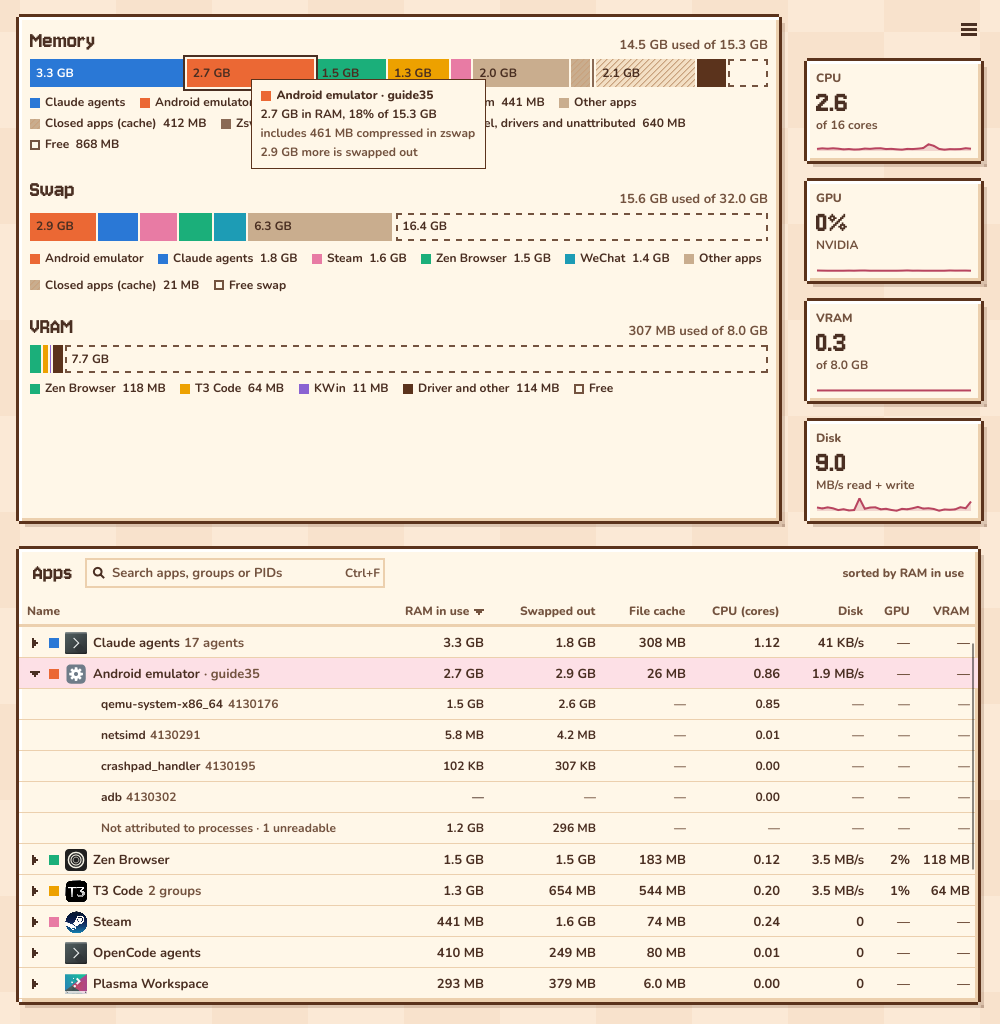
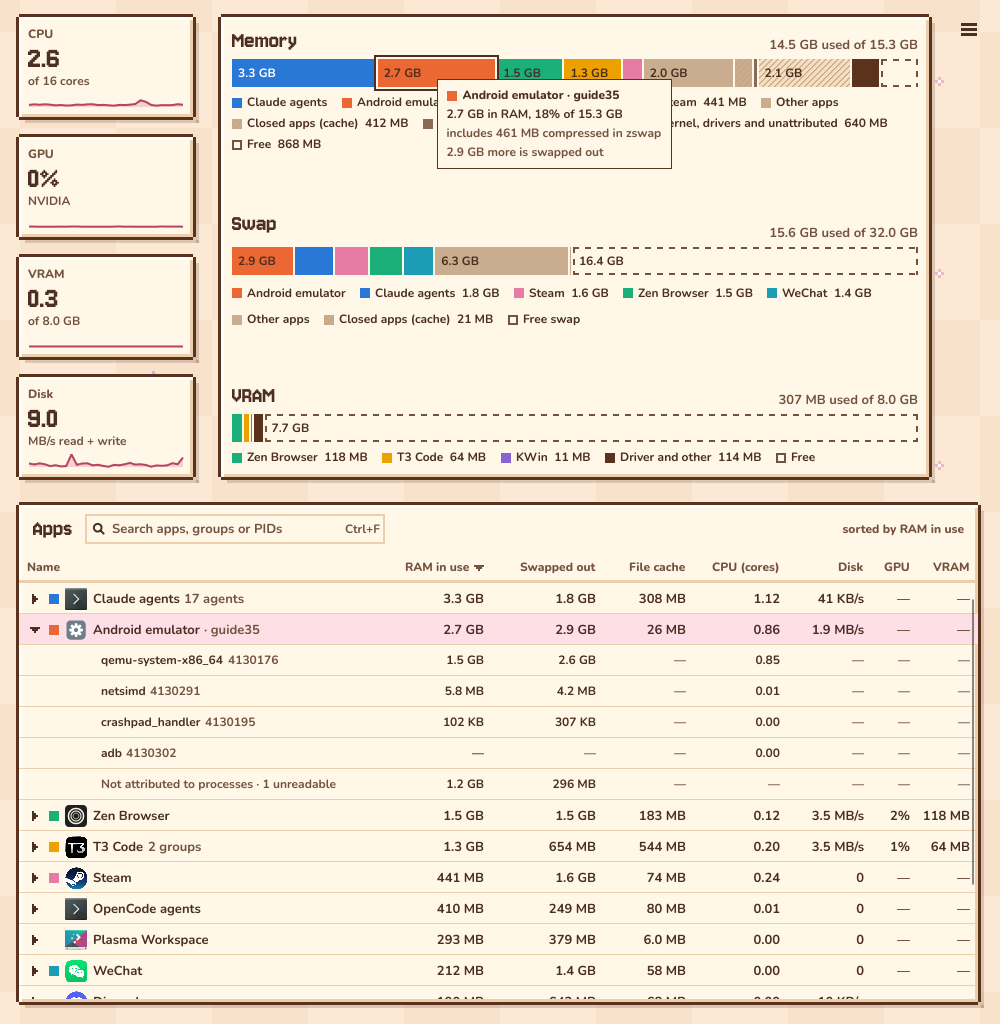
Tiles on the left, two by two in a wide window (#58) (#59)
* Tiles on the left, two by two in a wide window; the top as short as it can be (#58)

In a maximised window the top area took about 45% of the height with empty space under the
bars. The tiles now sit left of the bars, two by two from 1400 px wide, all four the same size;
the top area takes its minimum height and the bars share any spare height in equal gaps. The
menu button stays at the top right. Screenshots gain a maximised window (full-*).

* Equal tile widths in the two-by-two layout (#58)

Changed region(s): [[0.0, 0.0, 0.992, 1.0], [0.589, 0.375, 0.62, 0.4062]]

diff --git a/crates/app/src/screenshots.rs b/crates/app/src/screenshots.rs
@@ -259,9 +259,11 @@ fn screenshots() {
         crate::present(&ui, crate::sample::unsplit());
         shot.save(&shot.render(), &dir.join(format!("unaccounted-{name}.png")));
 
-        // #36: the narrowest and the shortest window, the minimum size, and the minimum at 2x.
+        // #36: the narrowest and the shortest window, the minimum size, and the minimum at 2x;
+        // and a window maximised on a 1920×1080 screen, where the legends wrap least.
         crate::present(&ui, crate::sample::snapshot());
         for (size, width, height, scale_factor) in [
+            ("full", 1920, 1040, 1.0),
             ("narrow", 760, 844, 1.0),
             ("short", 1000, 480, 1.0),
             ("min", 760, 480, 1.0),

diff --git a/README.md b/README.md
@@ -15,7 +15,7 @@
 </p>
 
 <p align="center">
-  <img src="docs/readme/breeze-light.png" alt="SebWatch in Breeze Light: RAM, swap and VRAM bars split by app, CPU, GPU, VRAM and disk tiles with their last minute as a graph, and the app table with the Android emulator expanded into its processes" />
+  <img src="docs/readme/breeze-light.png" alt="SebWatch in Breeze Light: CPU, GPU, VRAM and disk tiles with their last minute as a graph, RAM, swap and VRAM bars split by app beside them, and the app table with the Android emulator expanded into its processes" />
   <br /><sub>Breeze Light, with the Android emulator expanded into its processes</sub>
 </p>
 
@@ -65,7 +65,7 @@ the app menu under System. The chosen theme is kept in `~/.config/sebwatch/setti
 
 ## What you see
 
-Top to bottom:
+From the top:
 
 1. **RAM bar.** The five biggest apps in their own colours, then other apps, zswap pool, file
    cache (hatched: the kernel frees it on demand), kernel and drivers, and free. Hover a segment
@@ -73,8 +73,8 @@ Top to bottom:
 2. **Swap bar.** How much of each app sits in swap, naming the five biggest users of swap.
 3. **VRAM bar** (NVIDIA only). Each app's VRAM, naming the five biggest users, the driver's share, and free. While the GPU
    sleeps it says so, and SebWatch doesn't wake it.
-4. **Tiles** for CPU, GPU, VRAM and disk beside the bars, under the menu button that switches
-   theme.
+4. **Tiles** for CPU, GPU, VRAM and disk to the left of the bars, each with its last minute as a
+   small graph; two by two in a wide window. The menu button at the top right switches theme.
 5. **App table.** Name and icon, RAM in use, swapped out, file cache, CPU in cores, disk, GPU
    and VRAM, sorted by RAM; click a column's header to sort by it, again to reverse. An app
    keeps one colour in every bar and in the table. Press Ctrl+F to find an app by name, group or

diff --git a/docs/design.md b/docs/design.md
@@ -25,7 +25,7 @@ Android emulators never appear.
 
 ## Main window
 
-Top to bottom:
+From the top:
 
 1. **RAM bar** that sums to total RAM: the top apps in fixed colors, then other apps, zswap
    pool, file cache (hatched: freed on demand), kernel and drivers, free. Hovering a segment
@@ -46,9 +46,13 @@ Top to bottom:
    into "N more apps") and a chip reads "Filtered: N of M apps · the bars show the whole system";
    the bars and tiles don't change. "Closed apps (cache)" stays only when the search finds it
    or one of the apps it lists.
-5. Small headline tiles for CPU, GPU, VRAM and disk beside the bars, under the menu button:
-   the value large, its unit below, and the last minute as a line with a light fill along the
-   tile's bottom, under the words (tile style T3, #52).
+5. Headline tiles for CPU, GPU, VRAM and disk to the left of the bars: the value large, its
+   unit below, and the last minute as a line with a light fill along the tile's bottom, under
+   the words (tile style T3, #52). All four are the same size, graph or not. From 1400 px wide
+   they sit two by two, so the top area is only as tall as the bars and the table gets the rest;
+   narrower windows stack them in one column (#58). The top area is as short as the taller of
+   the tiles and the bars allows, and the bars share any spare height in equal gaps. The menu
+   button sits at the top right.
 
 **Small windows** (#36). The window is at least 760 × 480 and remembers its size in the
 settings file (not when maximised or full screen). A narrow window keeps the name column at

diff --git a/docs/decisions.md b/docs/decisions.md
@@ -20,7 +20,8 @@ Settled; don't ask again. One line each with the reason. Add a line when Seb set
   concise explanatory sentences in regular text; other items just concise sentences. Format
   and steps in `docs/release.md`. Seb, 2026-11-15.
 - **Main window layout (mockup approved, issue #5):** no summary sentences; the window starts
-  with the RAM, swap and VRAM bars, headline tiles (CPU, GPU, VRAM, disk) beside them; the theme
+  with the RAM, swap and VRAM bars, headline tiles (CPU, GPU, VRAM, disk) to their left (two by
+  two in a wide window, all four the same size; Seb, 2026-11-16, #58); the theme
   switcher (System, Light, Dark, SebChat; System follows the desktop's light/dark) in a menu
   behind a menu button, remembered between runs; the SebChat theme keeps the desktop's own title
   bar. Seb, 2026-11-15; summary removed and VRAM bar added by Seb, 2026-11-16. The app table
